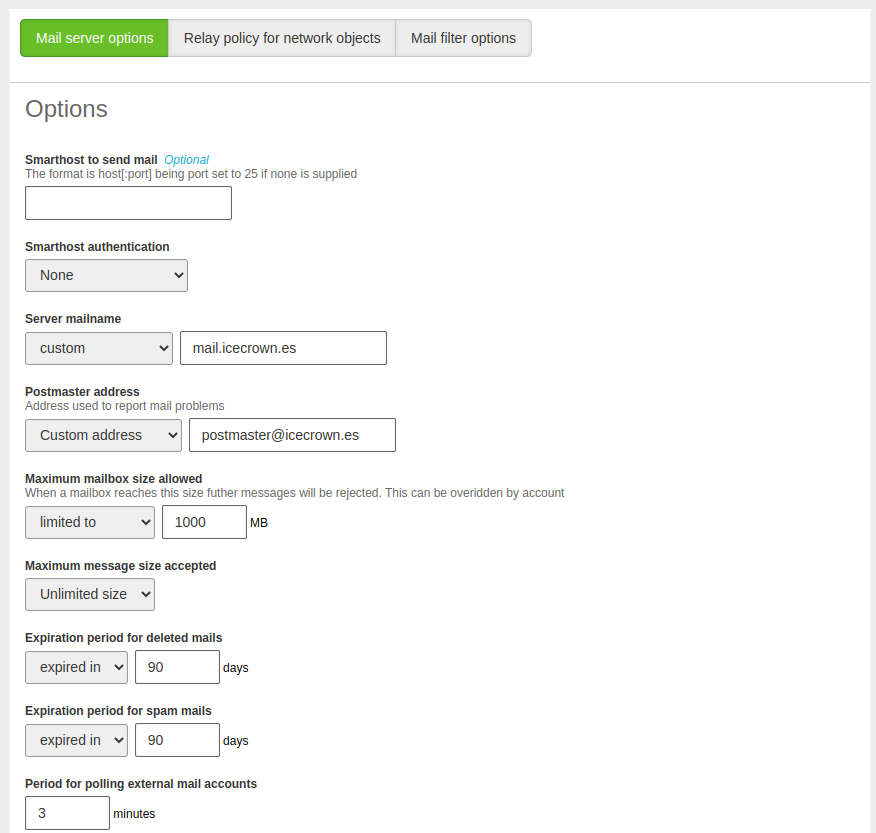
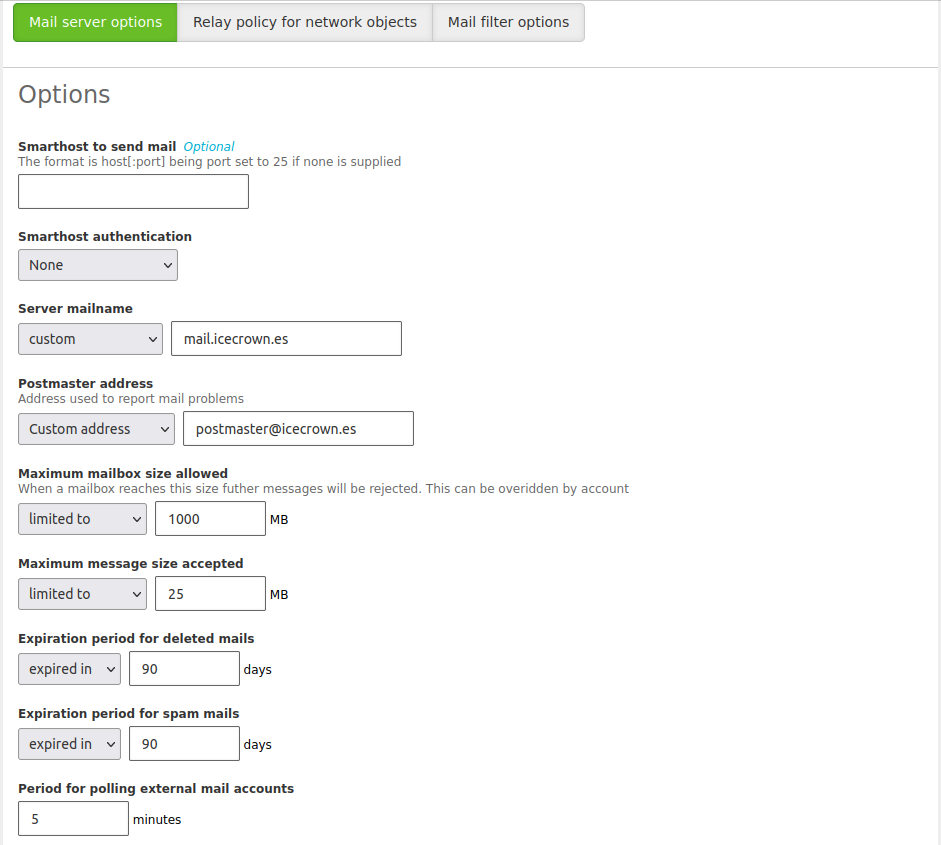
Mas cambios en la conf de Zentyal

Changed region(s): [[0.0, 0.2497, 0.6781, 0.9988], [0.0, 0.0, 0.6473, 0.2497], [0.2774, 0.6867, 0.3082, 0.7179]]

diff --git a/docs/zentyal-configuration.md b/docs/zentyal-configuration.md
@@ -344,7 +344,7 @@ En caso de que hayamos añadido volúmenes EBS adicionales - como ha sido mi cas
     df -h
     ```
 
-    En mi caso concreto, me muestra el siguiente resultado: **>>TODO<<**
+    En mi caso concreto, me muestra el siguiente resultado:
 
     ```sh
     ## Comando 'mount'
@@ -352,6 +352,16 @@ En caso de que hayamos añadido volúmenes EBS adicionales - como ha sido mi cas
     /dev/nvme1n1p1 on /home type ext4 (rw,nosuid,nodev,noexec,relatime)
 
     ## Comando 'df'
+    Filesystem       Size  Used Avail Use% Mounted on
+    /dev/root         29G  7.9G   21G  28% /
+    devtmpfs         1.9G     0  1.9G   0% /dev
+    tmpfs            1.9G  4.0K  1.9G   1% /dev/shm
+    tmpfs            388M  2.6M  386M   1% /run
+    tmpfs            5.0M     0  5.0M   0% /run/lock
+    tmpfs            1.9G     0  1.9G   0% /sys/fs/cgroup
+    /dev/nvme2n1p1   9.8G   17M  9.3G   1% /var/vmail
+    /dev/nvme1n1p1   9.8G  228K  9.3G   1% /home
+    /dev/nvme0n1p15  105M  5.2M  100M   5% /boot/efi
     ```
 
 ### Quota
@@ -394,11 +404,11 @@ Como Zentyal nos permite establecer quotas tanto a nivel de buzón de correo com
     sudo quotacheck -vug /home/
     ```
 
-    **>>TODO<<**
     En mi caso concreto, me muestra el siguiente resultado:
 
     ```sh
-
+    quotacheck: Scanning /dev/nvme1n1p1 [/home] done
+    quotacheck: Checked 18 directories and 33 files
     ```
 
 ## Configuración de los módulos
@@ -657,7 +667,7 @@ En mi caso concreto, voy a realizar esta tarea desde [AWS Route 53] - que es mi 
 
     ![DNS Route53 domain records](images/zentyal/dns-route53_records.png "DNS Route53 domain records")
 
-3. Finalmente, comprobaremos que podemos resolver los registros desde el exterior: **>>TODO<<**
+3. Finalmente, comprobaremos que podemos resolver los registros desde el exterior:
 
     ```sh
     ## Para el dominio
@@ -674,19 +684,123 @@ En mi caso concreto, voy a realizar esta tarea desde [AWS Route 53] - que es mi 
 
     ```text
     ## Para el dominio
+    ; <<>> DiG 9.16.1-Ubuntu <<>> icecrown.es
+    ;; global options: +cmd
+    ;; Got answer:
+    ;; ->>HEADER<<- opcode: QUERY, status: NOERROR, id: 45120
+    ;; flags: qr rd ra; QUERY: 1, ANSWER: 2, AUTHORITY: 0, ADDITIONAL: 1
+
+    ;; OPT PSEUDOSECTION:
+    ; EDNS: version: 0, flags:; udp: 65494
+    ;; QUESTION SECTION:
+    ;icecrown.es.			IN	A
+
+    ;; ANSWER SECTION:
+    icecrown.es.		21600	IN	A	10.0.1.200
+    icecrown.es.		21600	IN	A	15.237.168.75
+
+    ;; Query time: 35 msec
+    ;; SERVER: 127.0.0.53#53(127.0.0.53)
+    ;; WHEN: dom feb 12 16:27:16 CET 2023
+    ;; MSG SIZE  rcvd: 72
 
 
     ## Para el hostname del servidor
+    ; <<>> DiG 9.16.1-Ubuntu <<>> arthas.icecrown.es
+    ;; global options: +cmd
+    ;; Got answer:
+    ;; ->>HEADER<<- opcode: QUERY, status: NOERROR, id: 48798
+    ;; flags: qr rd ra; QUERY: 1, ANSWER: 2, AUTHORITY: 0, ADDITIONAL: 1
+
+    ;; OPT PSEUDOSECTION:
+    ; EDNS: version: 0, flags:; udp: 65494
+    ;; QUESTION SECTION:
+    ;arthas.icecrown.es.		IN	A
+
+    ;; ANSWER SECTION:
+    arthas.icecrown.es.	21344	IN	A	10.0.1.200
+    arthas.icecrown.es.	21344	IN	A	15.237.168.75
+
+    ;; Query time: 0 msec
+    ;; SERVER: 127.0.0.53#53(127.0.0.53)
+    ;; WHEN: dom feb 12 16:28:00 CET 2023
+    ;; MSG SIZE  rcvd: 79
 
 
     ## Para los alias
     ## Alias 1
+    ; <<>> DiG 9.16.1-Ubuntu <<>> @127.0.0.1 mail.icecrown.es
+    ; (1 server found)
+    ;; global options: +cmd
+    ;; Got answer:
+    ;; ->>HEADER<<- opcode: QUERY, status: NOERROR, id: 21571
+    ;; flags: qr rd ra; QUERY: 1, ANSWER: 3, AUTHORITY: 0, ADDITIONAL: 1
+
+    ;; OPT PSEUDOSECTION:
+    ; EDNS: version: 0, flags:; udp: 4096
+    ; COOKIE: b8ed6e85559044b30100000063e9059adadee2c519ea0e09 (good)
+    ;; QUESTION SECTION:
+    ;mail.icecrown.es.		IN	A
+
+    ;; ANSWER SECTION:
+    mail.icecrown.es.	21600	IN	CNAME	arthas.icecrown.es.
+    arthas.icecrown.es.	21318	IN	A	10.0.1.200
+    arthas.icecrown.es.	21318	IN	A	15.237.168.75
+
+    ;; Query time: 51 msec
+    ;; SERVER: 127.0.0.1#53(127.0.0.1)
+    ;; WHEN: dom feb 12 16:28:26 CET 2023
+    ;; MSG SIZE  rcvd: 126
 
 
     ## Alias 2
+    ; <<>> DiG 9.16.1-Ubuntu <<>> @127.0.0.1 webmail.icecrown.es
+    ; (1 server found)
+    ;; global options: +cmd
+    ;; Got answer:
+    ;; ->>HEADER<<- opcode: QUERY, status: NOERROR, id: 23686
+    ;; flags: qr rd ra; QUERY: 1, ANSWER: 3, AUTHORITY: 0, ADDITIONAL: 1
+
+    ;; OPT PSEUDOSECTION:
+    ; EDNS: version: 0, flags:; udp: 4096
+    ; COOKIE: 4aa92f2de94d09010100000063e9059a8f53de53ddbcbda7 (good)
+    ;; QUESTION SECTION:
+    ;webmail.icecrown.es.		IN	A
+
+    ;; ANSWER SECTION:
+    webmail.icecrown.es.	21600	IN	CNAME	arthas.icecrown.es.
+    arthas.icecrown.es.	21318	IN	A	10.0.1.200
+    arthas.icecrown.es.	21318	IN	A	15.237.168.75
+
+    ;; Query time: 39 msec
+    ;; SERVER: 127.0.0.1#53(127.0.0.1)
+    ;; WHEN: dom feb 12 16:28:26 CET 2023
+    ;; MSG SIZE  rcvd: 129
 
 
     ## Alias 3
+    ; <<>> DiG 9.16.1-Ubuntu <<>> @127.0.0.1 ns01.icecrown.es
+    ; (1 server found)
+    ;; global options: +cmd
+    ;; Got answer:
+    ;; ->>HEADER<<- opcode: QUERY, status: NOERROR, id: 22370
+    ;; flags: qr rd ra; QUERY: 1, ANSWER: 3, AUTHORITY: 0, ADDITIONAL: 1
+
+    ;; OPT PSEUDOSECTION:
+    ; EDNS: version: 0, flags:; udp: 4096
+    ; COOKIE: 383f9a085baef07a0100000063e9059a895e1947819ec7b4 (good)
+    ;; QUESTION SECTION:
+    ;ns01.icecrown.es.		IN	A
+
+    ;; ANSWER SECTION:
+    ns01.icecrown.es.	21600	IN	CNAME	arthas.icecrown.es.
+    arthas.icecrown.es.	21318	IN	A	10.0.1.200
+    arthas.icecrown.es.	21318	IN	A	15.237.168.75
+
+    ;; Query time: 31 msec
+    ;; SERVER: 127.0.0.1#53(127.0.0.1)
+    ;; WHEN: dom feb 12 16:28:26 CET 2023
+    ;; MSG SIZE  rcvd: 126
     ```
 
 ### Módulo de Controlador de dominio
@@ -736,7 +850,7 @@ Teniendo configurado el módulo de controlador de dominio, ya podremos configura
 * Los correos en la carpeta de spam será borrados automáticamente pasados 90 días.
 * La sincronización de cuentas de correo external mediante Fetchmail se harán cada 5 minutos.
 * Únicamente se permitirá los protocolos IMAPS y POP3S.
-* Fetchmail y Sieve estarán deshabilitados.
+* Fetchmail y Sieve estarán deshabilitados, ya que inicialmente no los usaré.
 * Se habilitará la lista gris, además, se reducirán a 24 horas para el reenvío de los emails y 30 días como periodo de borrado de borrado de entradas.
 
 [correo]: https://doc.zentyal.org/es/mail.html
@@ -747,15 +861,15 @@ A continuación las acciones a realizar para configurar el módulo:
 
     ![Mail new virtual domain](images/zentyal/mail-new_domain.png "Mail new virtual domain")
 
-2. Establecemos las configuraciones restrictivas opcionales mencionadas desde `Mail -> General`: **>>TODO<<**
+2. Establecemos las configuraciones restrictivas opcionales mencionadas desde `Mail -> General`:
 
     ![Mail additional configuration](images/zentyal/mail-additional_conf.png "Mail additional configuration")
 
-3. Habilitados los protocolos seguros de recepción de emails y deshabilitaremos el resto tal y como se mencionó: **>>TODO<<**
+3. Deshabilitamos Fetchmail y Sieve:
 
     ![Mail services](images/zentyal/mail-services.png "Mail services")
 
-4. También habilitamos la lista gris desde `Mail -> Greylist`: **>>TODO<<**
+4. También habilitamos la lista gris desde `Mail -> Greylist`:
 
     ![Mail greylist](images/zentyal/mail-greylist.png "Mail greylist")
 
@@ -765,9 +879,42 @@ A continuación las acciones a realizar para configurar el módulo:
 
 6. Creamos el registro de tipo `MX` en el dominio: **>>TODO<<**
 
-    IMG
+    ```sh
+    sudo samba-tool dns add 127.0.0.1 icecrown.es icecrown.es MX "mail.icecrown.es 10" -U zenadmin
+    ```
 
-7. Creamos el usuario `postmaster@icecrown.es` especificado en el paso 2 desde `Users and Computers -> Manage`:
+7. Comprobamos que la consulta sea accesible desde el exterior: **>>TODO<<**
+
+    ```sh
+    dig MX icecrown.es
+    ```
+
+    En resultado que obtengo: **>>TODO<<**
+
+    ```sh
+    ; <<>> DiG 9.16.1-Ubuntu <<>> MX icecrown.es @15.237.168.75
+    ;; global options: +cmd
+    ;; Got answer:
+    ;; ->>HEADER<<- opcode: QUERY, status: NOERROR, id: 10566
+    ;; flags: qr aa rd; QUERY: 1, ANSWER: 1, AUTHORITY: 0, ADDITIONAL: 1
+    ;; WARNING: recursion requested but not available
+
+    ;; OPT PSEUDOSECTION:
+    ; EDNS: version: 0, flags:; udp: 4096
+    ; COOKIE: 1fb1e2e7f1e3cb540100000063e90b4b145c1242ca992586 (good)
+    ;; QUESTION SECTION:
+    ;icecrown.es.			IN	MX
+
+    ;; ANSWER SECTION:
+    icecrown.es.		900	IN	MX	10 mail.icecrown.es.
+
+    ;; Query time: 32 msec
+    ;; SERVER: 15.237.168.75#53(15.237.168.75)
+    ;; WHEN: dom feb 12 16:52:43 CET 2023
+    ;; MSG SIZE  rcvd: 89
+    ```
+
+8. Creamos el usuario `postmaster@icecrown.es` especificado en el paso 2 desde `Users and Computers -> Manage`:
 
     ![Mail postmaster user](images/zentyal/mail-user_postmaster.png "Mail postmaster user")
 
@@ -777,9 +924,11 @@ Finalmente, probaremos con un cliente de correo (Thunderbird en mi caso) a que p
 
     ![Thunderbird setup new account](images/zentyal/mail-thunderbird_new-account.png "Thunderbird setup new account")
 
-2. Establecemos los datos de conexión con el servicio SMTP e IMAP (DEBERÍA SER IMAPS): **>>TODO<<**
+2. Establecemos los datos de conexión con el servicio SMTPS e IMAPS:
 
     ![Thunderbird setup server](images/zentyal/mail-thunderbird_server.png "Thunderbird setup server")
+
+    **NOTA:** Hay que cambiar el tipo de autenticación a '**Normal password**', de lo contrario fallará la autenticación.
 
 3. Tras confirmar la configuración, nos saldrá el siguiente mensaje de advertencia por el certificado, el cual es normal, ya que es un certificado auto-firmado por Zentyal:
 
@@ -789,7 +938,9 @@ Finalmente, probaremos con un cliente de correo (Thunderbird en mi caso) a que p
 
     ![Thunderbird login](images/zentyal/mail-thunderbird_login.png "Thunderbird login")
 
-5. Finalmente, enviamos un email de prueba a nosotros mismos y otro a una cuenta externa para confirmar el funcionamiento del módulo.
+5. Finalmente, enviamos un email de prueba a nosotros mismos y otro a una cuenta externa para confirmar el funcionamiento del módulo: **>>TODO<<**
+
+    IMG
 
 Llegados a este punto, el módulo de correo debería ser totalmente funcional, no obstante, todavía está sin securizar, por lo que es conveniente no usarlo todavía hasta al menos, haber configurado y habilitado el módulo de Mailfilter. Adicionalmente, habrá otro apartado en este proyecto llamado '**hardening**' donde se incrementará todavía más la seguridad del módulo.
 
